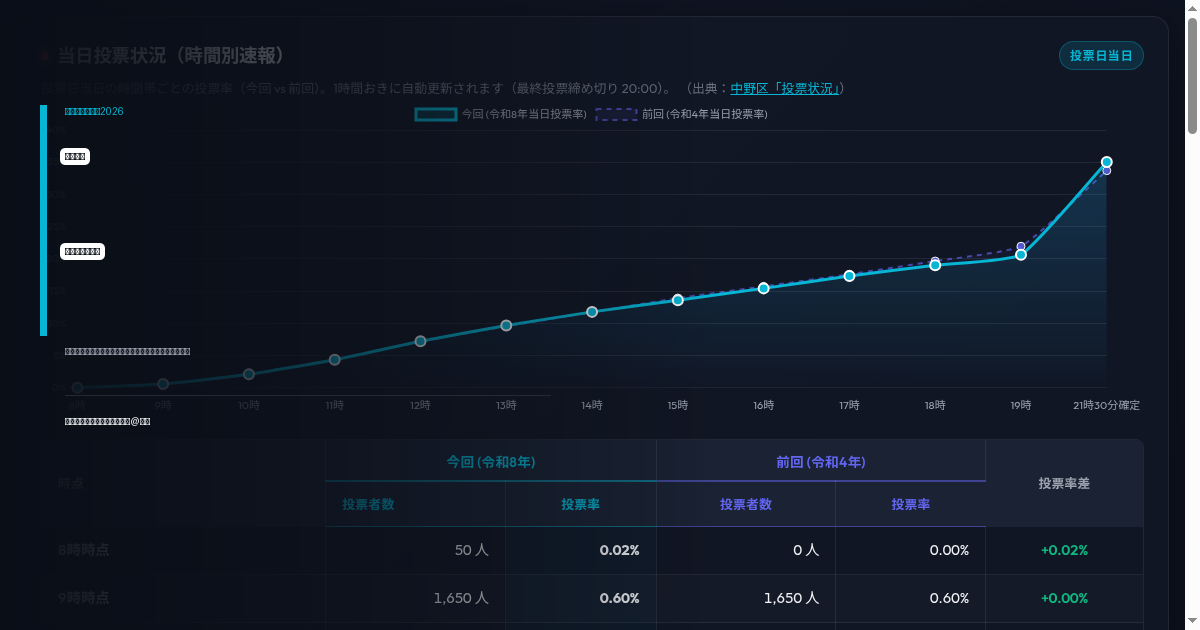
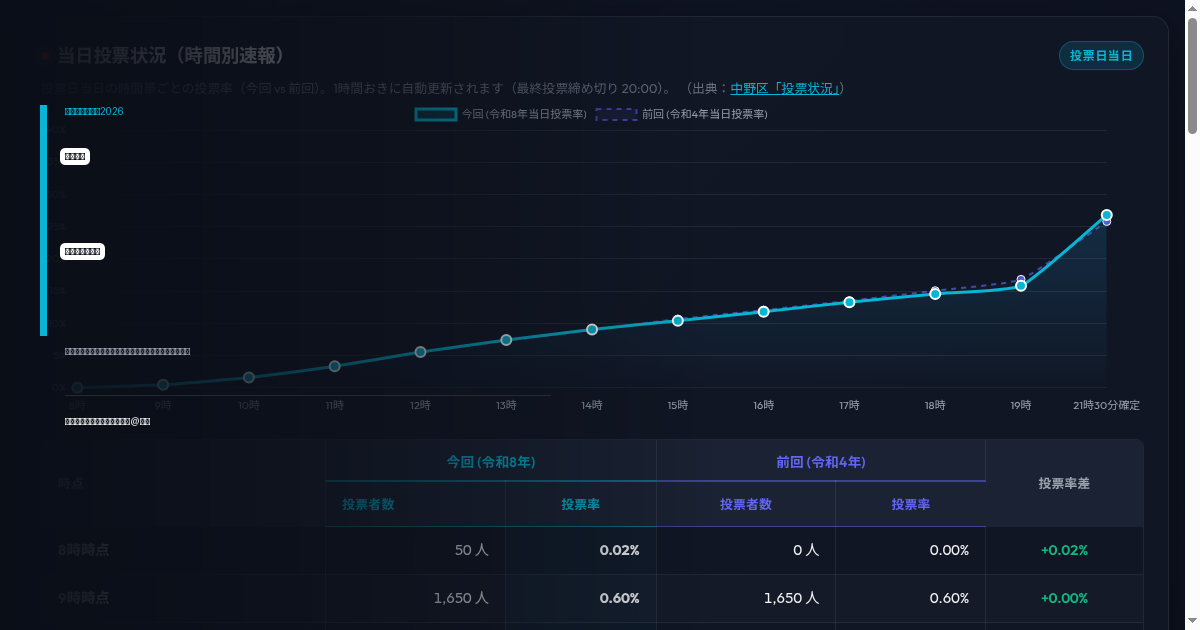
data: Auto-update early voting statistics [skip ci]

Changed region(s): [[0.185, 0.2413, 0.925, 0.6032]]

diff --git a/index.html b/index.html
@@ -13,14 +13,14 @@
     <meta property="og:url" content="https://kawazusa.github.io/2026nakanovoting_rate/">
     <meta property="og:title" content="中野区長選挙 投票状況ダッシュボード (前回 vs 今回)">
     <meta property="og:description" content="前回（令和4年）と今回（令和8年）の中野区長選挙の投票状況（期日前・当日投票率）をリアルタイムに比較できるダッシュボードです。毎日21:15頃に最新データへ自動更新されます。">
-    <meta property="og:image" content="https://kawazusa.github.io/2026nakanovoting_rate/ogp-image.png?v=202606080705">
+    <meta property="og:image" content="https://kawazusa.github.io/2026nakanovoting_rate/ogp-image.png?v=202606081210">
 
     <!-- Twitter -->
     <meta name="twitter:card" content="summary_large_image">
     <meta name="twitter:url" content="https://kawazusa.github.io/2026nakanovoting_rate/">
     <meta name="twitter:title" content="中野区長選挙 投票状況ダッシュボード (前回 vs 今回)">
     <meta name="twitter:description" content="前回（令和4年）と今回（令和8年）の中野区長選挙の投票状況（期日前・当日投票率）をリアルタイムに比較できるダッシュボードです。毎日21:15頃に最新データへ自動更新されます。">
-    <meta name="twitter:image" content="https://kawazusa.github.io/2026nakanovoting_rate/ogp-image.png?v=202606080705">
+    <meta name="twitter:image" content="https://kawazusa.github.io/2026nakanovoting_rate/ogp-image.png?v=202606081210">
     
     <!-- Google Fonts -->
     <link rel="preconnect" href="https://fonts.googleapis.com">
@@ -31,7 +31,7 @@
     <script src="https://cdn.jsdelivr.net/npm/chart.js"></script>
     
     <!-- Custom CSS -->
-    <link rel="stylesheet" href="styles.css?v=202606080705">
+    <link rel="stylesheet" href="styles.css?v=202606081210">
 </head>
 <body>
     <div class="app-container">
@@ -331,7 +331,7 @@
     </div>
 
     <!-- Data & Script files -->
-    <script src="data.js?v=202606080705"></script>
-    <script src="app.js?v=202606080705"></script>
+    <script src="data.js?v=202606081210"></script>
+    <script src="app.js?v=202606081210"></script>
 </body>
 </html>
